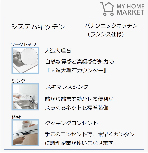
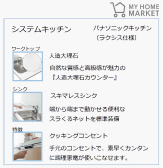
'那須が変更した分'

diff --git a/web/index.html b/web/index.html
@@ -66,11 +66,11 @@
                         セルフ見積もりで価格の確認もかんたん！</p>
                 </div>
                 <div class="cont kasai">
-                        <img src="img/p4_img2.jpg" alt="" class="first">
-                        <img src="img/p4_kasai.png" alt="" class="second">
-                        <p>完成イメージは高精細なVRで<br>
-                           隅々まで見ることが出来ます<br>
-                           VRゴーグルがあれば更に迫力満点!</p>
+                    <img src="img/p4_img2.jpg" alt="" class="first">
+                    <img src="img/p4_kasai.png" alt="" class="second">
+                    <p>完成イメージは高精細なVRで<br>
+                        隅々まで見ることが出来ます<br>
+                        VRゴーグルがあれば更に迫力満点!</p>
                 </div>
             </div>
             <div class="cover inner article3">
@@ -105,7 +105,9 @@
                     </ul>
                     <div class="small_box">
                         <dl class="model_info flex">
-                            <dt class="logo"><img src="img/luxis01_logo.png" alt="LUXIS01"></dt>
+                            <dt class="logo">
+                                <!-- <img src="img/luxis01_logo.png" alt="LUXIS01" class="pc"> -->
+                                <img src="img/luxis01_logo_large.png" alt="LUXIS01"></dt>
                             <dd class="area"><span>3LDK</span>or<span class="hr">4LDK</span>29.00坪</dd>
                             <dt class="image"><img src="img/luxix_img-100.jpg" alt="LUXIS01外観"></dt>
                             <dd class="info">1F/53.00m2[16.00坪]<br>
@@ -155,7 +157,7 @@
                         </dl>
                         <div class="detail flex">
                             <dl class="liz_rogo">
-                                <dt><img src="img/liznas_logo_small_1.png" alt="LIZNASロゴ"></dt>
+                                <dt><img src="img/liznas_logo_middle_1.png" alt="LIZNASロゴ"></dt>
                                 <dd>本町モデル</dd>
                             </dl>
                             
@@ -220,7 +222,7 @@
                 <ul class="flex">
                     <li>
                         <a href="https://myhomemarket.jp/product/tsuchiya/LUXIS-LUXURY">
-                            <div><img src="img/luxis_luxyry-100.jpg" alt="LUXURY内観">
+                            <div><img src="img/luxis_luxury-100.jpg" alt="LUXURY内観">
                             <span>購入<br>シミュレーション<img src="img/mhm_mark.png" alt="MHMマーク"></span></div>
                             <p>家族にとっての一番の贅沢は<br>皆が笑顔でいられること。<br>そんな当たり前を気付かせてくれる家。</p>
                             <h3><img src="img/luxis_logo.png" alt="OASIS内観"><span> - LUXURY</span></h3>
@@ -236,7 +238,7 @@
                     </li>
                     <li>
                         <a href="https://myhomemarket.jp/product/tsuchiya/LUXIS-OASIS">
-                            <div><img src="img/oasis-100.jpg" alt="OASIS内観">
+                            <div><img src="img/luxis_oasis-100.jpg" alt="OASIS内観">
                             <span>購入<br>シミュレーション<img src="img/mhm_mark.png" alt="MHMマーク"></span></div>
                             <p>ナチュラルな素材を用いた空間演出。<br>心からくつろげる、<br>穏やかな時間を約束します。</p>
                             <h3><img src="img/luxis_logo.png" alt="OASIS内観"><span> - OASIS</span></h3>

diff --git a/web/css/style.css b/web/css/style.css
@@ -378,8 +378,8 @@ div.next img, div.back img {
 #p2 .article div.title .cap_img{
     position: absolute;
     top: -60%;
-    left: 50%;
-    width: 50%;
+    left: 52%;
+    width: 48%;
 }
 #p2 .article2 {
     display: flex;
@@ -479,6 +479,9 @@ div.next img, div.back img {
 } 
 .article4 .model_info {
     justify-content: center;
+}
+.article4 .model_info .logo img.pc {
+    display: none;
 }
 .article4 dt, .article4 dd {
     margin-bottom: 1rem;
@@ -616,7 +619,7 @@ div.next img, div.back img {
 .article7 li div::after {
     content: "";
     position: absolute;
-    top: 0;
+    top: -1px;
     width: 0;
     height: 0;
     border-style: solid;
@@ -627,7 +630,7 @@ div.next img, div.back img {
 }
 .article5 .right dt::before,
 .article7 li div::before {
-    left: 0;
+    left: -1px;
     border-width: 18vw 32vw 0 0;
     border-color: #fff transparent transparent transparent;
 }
@@ -673,6 +676,7 @@ div.next img, div.back img {
 }
 .article6 figure, .article6 figure .def {
     position: relative;
+    width: 100%;
 }
 .article6 figure img {
     position: absolute;
@@ -900,6 +904,12 @@ div.next img, div.back img {
     }
     #p3 footer {
         height: 9rem;
+    }
+    .article4 .model_info .logo img.pc {
+        display: block;
+    }
+    .article4 .model_info .logo img.sp {
+        display: none;
     }
     
 }
